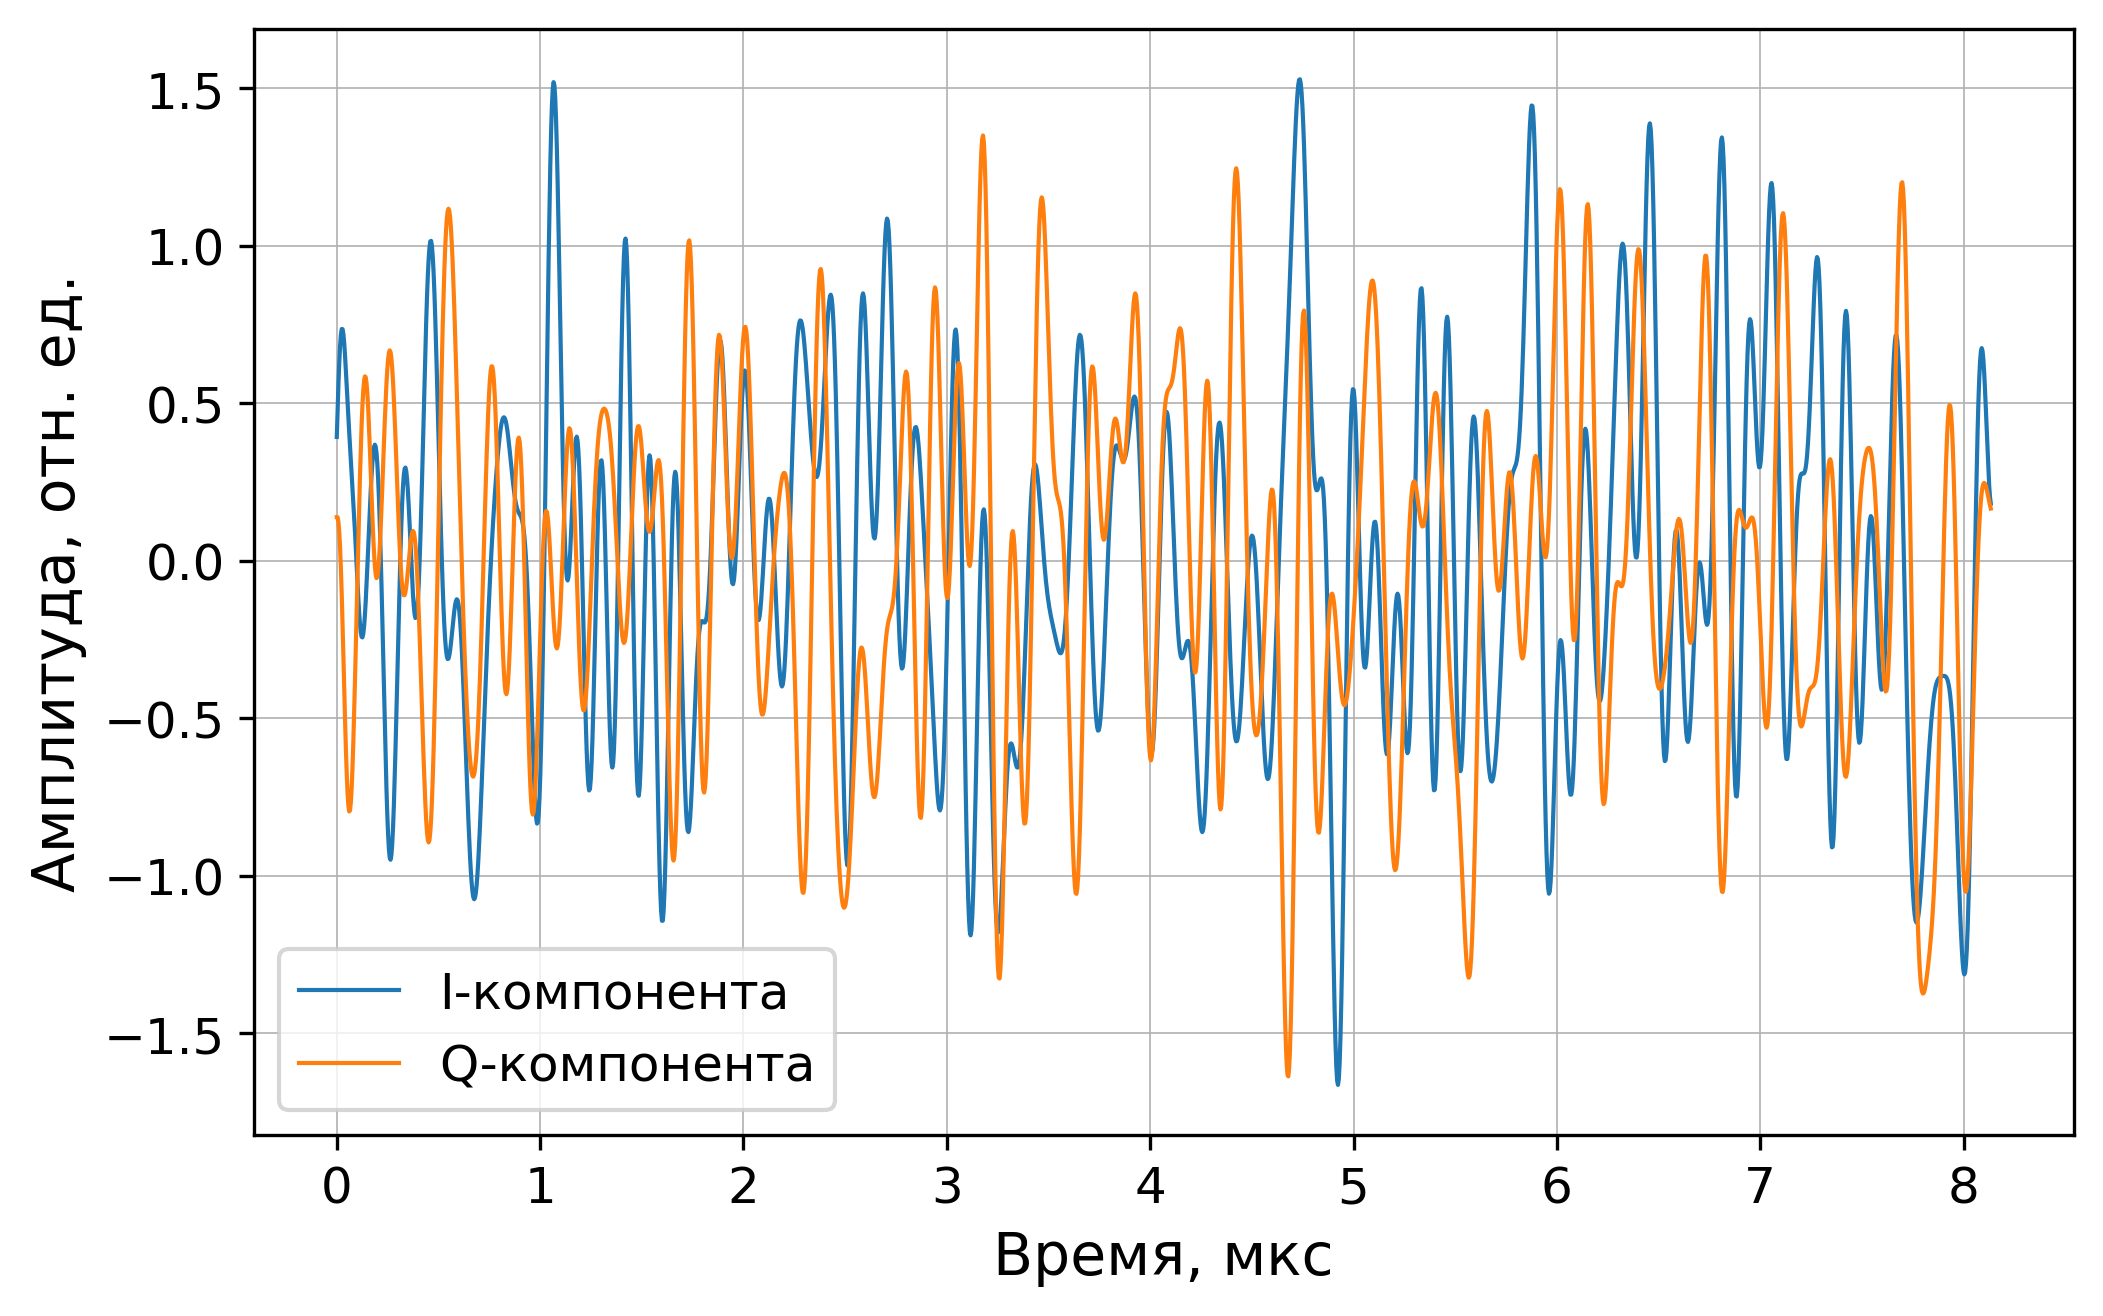
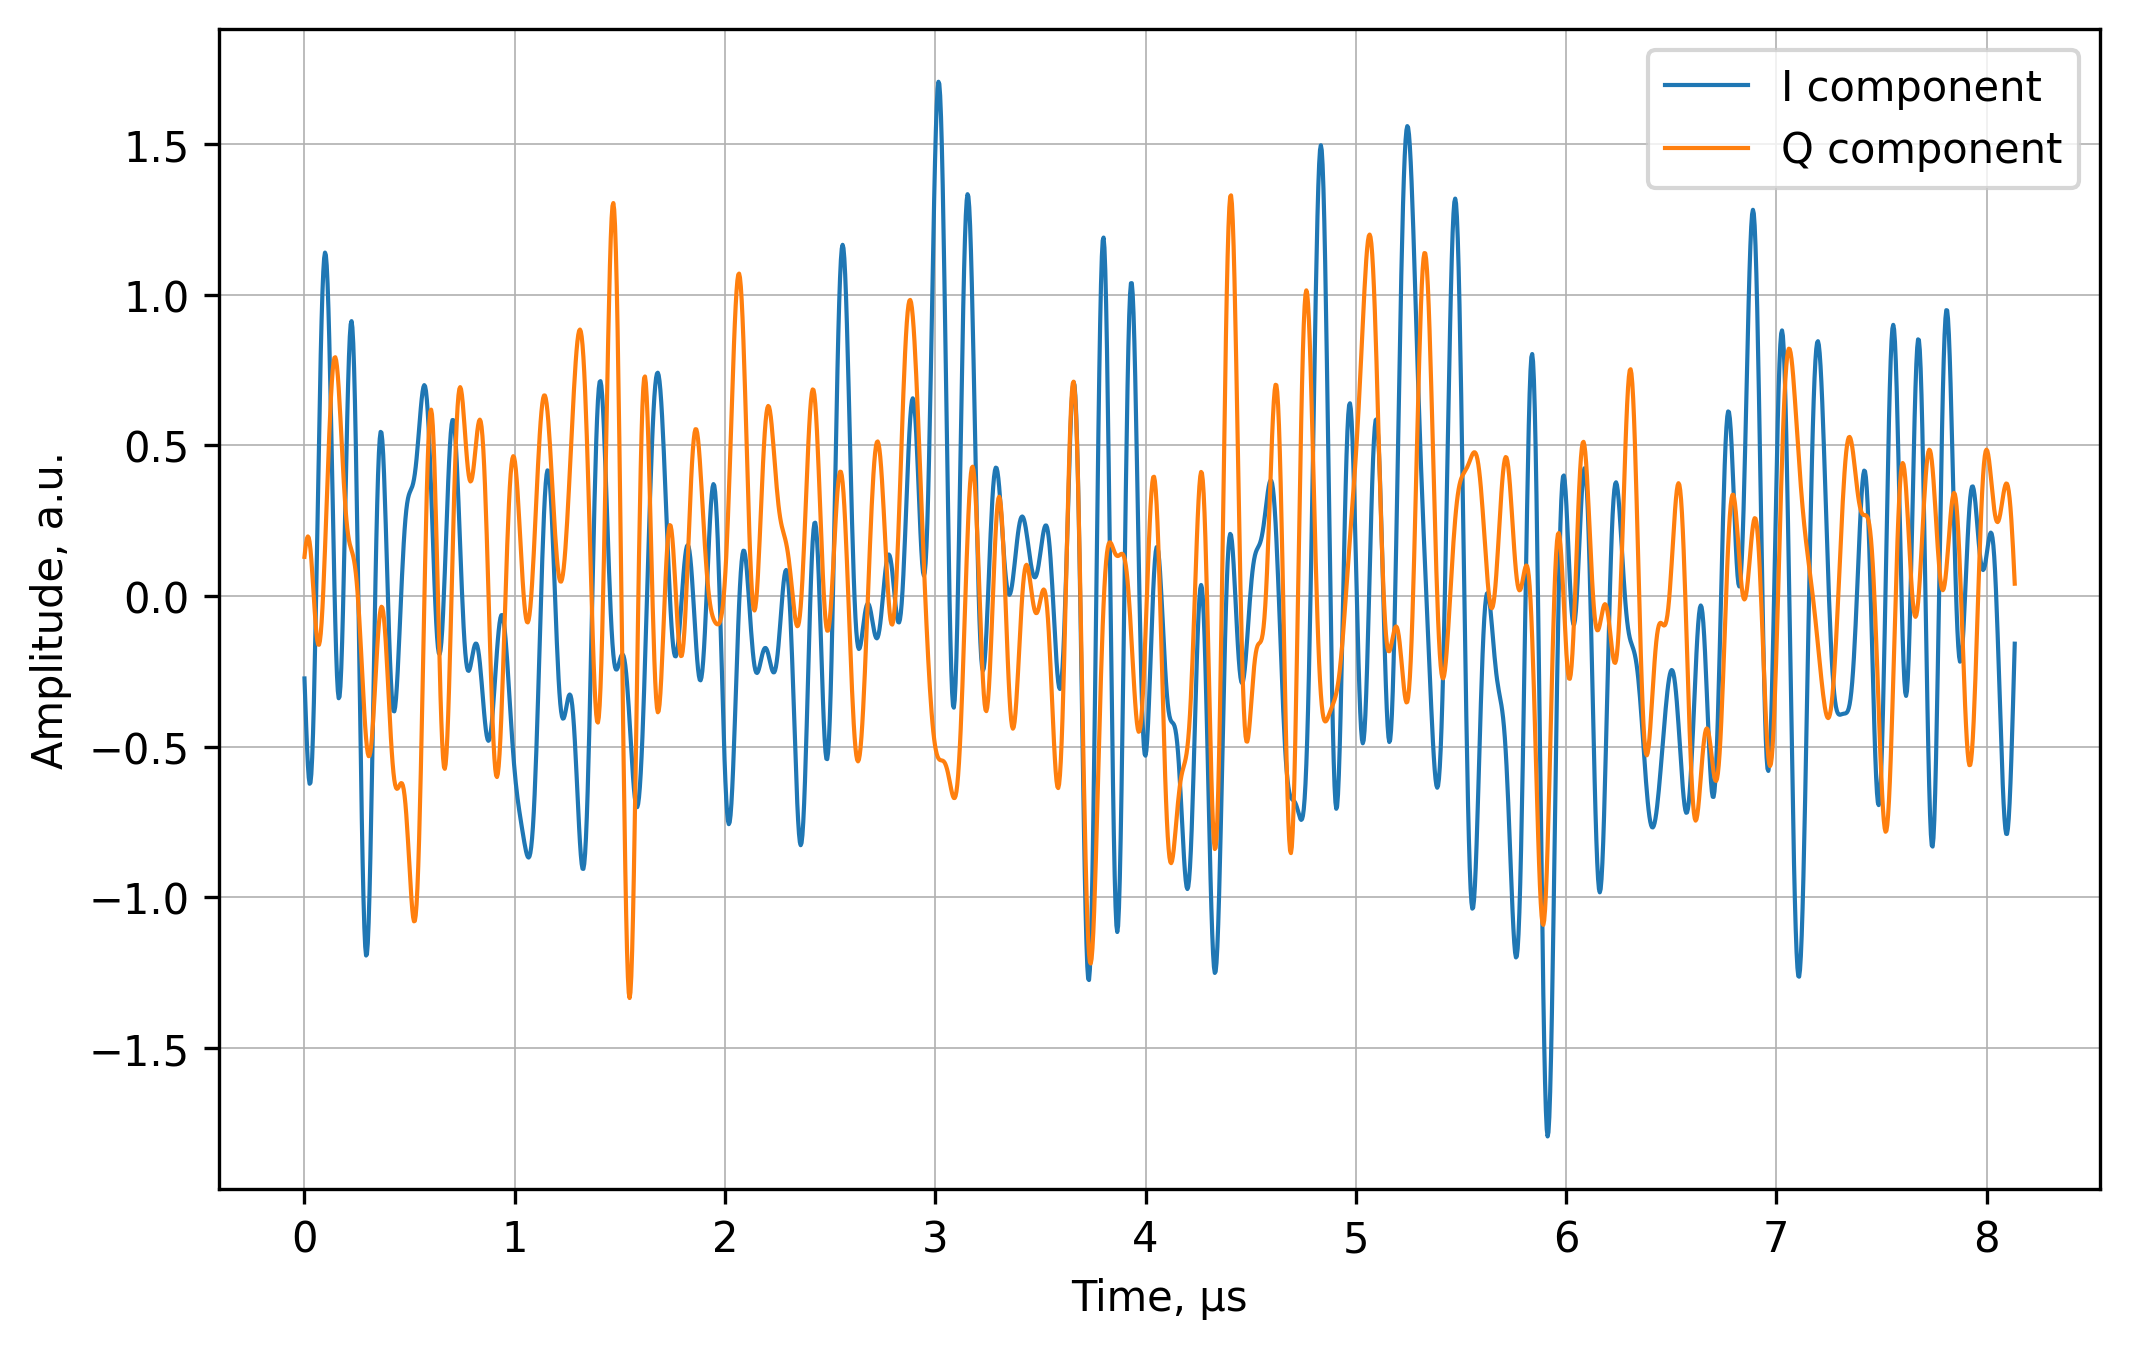
графики на английском

diff --git a/plot_utils.py b/plot_utils.py
@@ -68,22 +68,32 @@ def plot_amam_ampm(x_ref, y_before, y_after):
     fig, ax = plt.subplots(1, 2, figsize=(12, 5))
 
     ax[0].scatter(
-        a_in[::stride_am], a_out_before[::stride_am], s=10, alpha=0.45, label="До DPD"
+        a_in[::stride_am],
+        a_out_before[::stride_am],
+        s=10,
+        alpha=0.45,
+        label="Before DPD",
     )
     ax[0].scatter(
         a_in[::stride_am],
         a_out_after[::stride_am],
         s=10,
         alpha=0.45,
-        label="После DPD",
+        label="After DPD",
         color="tab:red",
     )
 
     lim = max(np.max(a_in), np.max(a_out_before), np.max(a_out_after))
-    ax[0].plot([0, lim], [0, lim], "--", linewidth=1.0, label="Идеальная линейность")
-    ax[0].set_xlabel("Амплитуда входного сигнала")
-    ax[0].set_ylabel("Амплитуда выходного сигнала")
-    ax[0].set_title("AM/AM характеристика")
+    ax[0].plot(
+        [0, lim],
+        [0, lim],
+        "--",
+        linewidth=1.0,
+        label="Ideal linear response",
+    )
+    ax[0].set_xlabel("Input signal amplitude")
+    ax[0].set_ylabel("Output signal amplitude")
+    ax[0].set_title("AM/AM characteristic")
     ax[0].grid(True)
     ax[0].legend()
 
@@ -91,16 +101,28 @@ def plot_amam_ampm(x_ref, y_before, y_after):
     phi_b = phi_before[mask_phi][::stride_pm]
     phi_a = phi_after[mask_phi][::stride_pm]
 
-    ax[1].scatter(a_in_phi, phi_b, s=10, alpha=0.45, label="До DPD")
-    ax[1].scatter(a_in_phi, phi_a, s=10, alpha=0.45, label="После DPD", color="tab:red")
-    ax[1].axhline(0.0, linestyle="--", linewidth=1.0, label="Идеальная линейность")
-    ax[1].set_xlabel("Амплитуда входного сигнала")
-    ax[1].set_ylabel("Фазовая ошибка, градусы")
-    ax[1].set_title("AM/PM характеристика")
+    ax[1].scatter(a_in_phi, phi_b, s=10, alpha=0.45, label="Before DPD")
+    ax[1].scatter(
+        a_in_phi,
+        phi_a,
+        s=10,
+        alpha=0.45,
+        label="After DPD",
+        color="tab:red",
+    )
+    ax[1].axhline(
+        0.0,
+        linestyle="--",
+        linewidth=1.0,
+        label="Ideal linear response",
+    )
+    ax[1].set_xlabel("Input signal amplitude")
+    ax[1].set_ylabel("Phase error, degrees")
+    ax[1].set_title("AM/PM characteristic")
     ax[1].grid(True)
     ax[1].legend()
 
-    fig.suptitle("Амплитудно-амплитудная и амплитудно-фазовая характеристики")
+    fig.suptitle("AM/AM and AM/PM characteristics")
     fig.tight_layout()
 
     return fig, ax
@@ -137,14 +159,27 @@ def plot_gain_vs_input(x_ref, y_before, y_after):
 
     fig, ax = plt.subplots(figsize=(6, 5))
     ax.scatter(
-        pin_db[::stride], gain_before_db[::stride], s=10, alpha=0.45, label="До DPD"
+        pin_db[::stride],
+        gain_before_db[::stride],
+        s=10,
+        alpha=0.45,
+        label="Before DPD",
     )
     ax.scatter(
-        pin_db[::stride], gain_after_db[::stride], s=10, alpha=0.45, label="После DPD"
+        pin_db[::stride],
+        gain_after_db[::stride],
+        s=10,
+        alpha=0.45,
+        label="After DPD",
     )
-    ax.axhline(0.0, linestyle="--", linewidth=1.0, label="Идеально постоянное усиление")
-    ax.set_xlabel("Уровень входного сигнала, дБ")
-    ax.set_ylabel("Коэффициент усиления, дБ")
+    ax.axhline(
+        0.0,
+        linestyle="--",
+        linewidth=1.0,
+        label="Ideal constant gain",
+    )
+    ax.set_xlabel("Input signal level, dB")
+    ax.set_ylabel("Gain, dB")
     ax.set_title("Gain vs Input Level")
     ax.grid(True)
     ax.legend()
@@ -164,10 +199,10 @@ def plot_training_history(model):
     sample_hist = np.asarray(model.get("sample_hist", []), dtype=float)
     if sample_hist.size == nmse_after.size:
         x_axis = sample_hist
-        x_label = "Номер обработанного отсчета"
+        x_label = "Processed sample index"
     else:
         x_axis = np.arange(1, len(nmse_after) + 1)
-        x_label = "Номер контрольной оценки"
+        x_label = "Validation step"
 
     fig, ax = plt.subplots(figsize=(7, 4))
     ax.plot(
@@ -178,8 +213,8 @@ def plot_training_history(model):
         label="NMSE",
     )
     ax.set_xlabel(x_label)
-    ax.set_ylabel("NMSE, дБ")
-    ax.set_title("Сходимость LMS по системной метрике NMSE")
+    ax.set_ylabel("NMSE, dB")
+    ax.set_title("LMS convergence according to the system NMSE metric")
     ax.grid(True)
     ax.legend()
     fig.tight_layout()
@@ -196,7 +231,7 @@ def plot_pa_amam_ampm(
     save=True,
     show=False,
 ):
-    """Строит AM-AM и AM-PM характеристики модели усилителя мощности."""
+    """Plots AM/AM and AM/PM characteristics of the power amplifier model."""
     os.makedirs(out_dir, exist_ok=True)
 
     x_in = np.asarray(x_in, dtype=np.complex128).reshape(-1)
@@ -223,7 +258,7 @@ def plot_pa_amam_ampm(
         a_out[::stride_am],
         s=7,
         alpha=0.35,
-        label="Модель усилителя",
+        label="Power amplifier model",
     )
 
     lim = max(np.max(a_in), np.max(a_out))
@@ -232,11 +267,11 @@ def plot_pa_amam_ampm(
         [0, lim],
         "--",
         linewidth=1.2,
-        label="Идеальная линейность",
+        label="Ideal linear response",
     )
 
-    ax.set_xlabel(r"Амплитуда входного сигнала")
-    ax.set_ylabel(r"Амплитуда выходного сигнала")
+    ax.set_xlabel(r"Input signal amplitude")
+    ax.set_ylabel(r"Output signal amplitude")
     ax.legend(loc="best")
     ax.grid(True)
 
@@ -257,18 +292,18 @@ def plot_pa_amam_ampm(
         phase_shift[mask_pm][::stride_pm],
         s=7,
         alpha=0.35,
-        label="Модель усилителя",
+        label="Power amplifier model",
     )
 
     ax.axhline(
         0.0,
         linestyle="--",
         linewidth=1.2,
-        label="Отсутствие фазового сдвига",
+        label="No phase shift",
     )
 
-    ax.set_xlabel(r"Амплитуда входного сигнала")
-    ax.set_ylabel(r"Фазовый сдвиг, градусы")
+    ax.set_xlabel(r"Input signal amplitude")
+    ax.set_ylabel(r"Phase shift, degrees")
     ax.legend(loc="best")
     ax.grid(True)
 
@@ -307,10 +342,21 @@ def plot_pa_gain_vs_input(x_in, y_out):
     stride = _scatter_stride(len(pin_db), max_points=30000)
 
     fig, ax = plt.subplots(figsize=(6, 5))
-    ax.scatter(pin_db[::stride], gain_db[::stride], s=10, alpha=0.45, label="PA")
-    ax.axhline(0.0, linestyle="--", linewidth=1.0, label="Идеально постоянное усиление")
-    ax.set_xlabel("Уровень входного сигнала, дБ")
-    ax.set_ylabel("Коэффициент усиления, дБ")
+    ax.scatter(
+        pin_db[::stride],
+        gain_db[::stride],
+        s=10,
+        alpha=0.45,
+        label="PA",
+    )
+    ax.axhline(
+        0.0,
+        linestyle="--",
+        linewidth=1.0,
+        label="Ideal constant gain",
+    )
+    ax.set_xlabel("Input signal level, dB")
+    ax.set_ylabel("Gain, dB")
     ax.grid(True)
     ax.legend()
     fig.tight_layout()
@@ -325,7 +371,7 @@ def plot_pa_input_output_spectrum(
     out_dir="figures",
     filename="pa_input_output_spectrum.png",
 ):
-    """Строит спектры входного и выходного сигналов усилителя."""
+    """Plots spectra of the input and output signals of the power amplifier."""
     os.makedirs(out_dir, exist_ok=True)
 
     fs = prm["txFs"] * prm["up"]
@@ -345,12 +391,12 @@ def plot_pa_input_output_spectrum(
     if len(handles) >= 2:
         ax.legend(
             handles[:2],
-            ["Вход усилителя", "Выход усилителя"],
+            ["PA input", "PA output"],
             loc="best",
         )
 
-    ax.set_xlabel("Частота, МГц")
-    ax.set_ylabel("Нормированная спектральная \n плотность мощности, дБ")
+    ax.set_xlabel("Frequency, MHz")
+    ax.set_ylabel("Normalized power spectral density, dB")
     ax.grid(True)
 
     fig.tight_layout()

diff --git a/generator.py b/generator.py
@@ -281,8 +281,8 @@ def _plot_generated_signal(x, prm, mode):
         ax.axvline(-sig_band / 2 / 1e6, linestyle="--", linewidth=1.0, color="gray")
         ax.axvline(sig_band / 2 / 1e6, linestyle="--", linewidth=1.0, color="gray")
 
-    ax.set_xlabel("Частота, МГц")
-    ax.set_ylabel("Нормированная спектральная \n плотность мощности, дБ")
+    ax.set_xlabel("Frequency, MHz")
+    ax.set_ylabel("Normalized power spectral density, dB")
     ax.grid(True, linewidth=0.4)
     ax.set_ylim(-70, 5)
     ax.set_xlim(-40, 40)
@@ -300,11 +300,11 @@ def _plot_generated_signal(x, prm, mode):
 
     fig, ax = plt.subplots(figsize=(7.2, 4.6))
 
-    ax.plot(t * 1e6, np.real(x[:n_show]), linewidth=1.0, label="I-компонента")
-    ax.plot(t * 1e6, np.imag(x[:n_show]), linewidth=1.0, label="Q-компонента")
+    ax.plot(t * 1e6, np.real(x[:n_show]), linewidth=1.0, label="I component")
+    ax.plot(t * 1e6, np.imag(x[:n_show]), linewidth=1.0, label="Q component")
 
-    ax.set_xlabel("Время, мкс")
-    ax.set_ylabel("Амплитуда, отн. ед.")
+    ax.set_xlabel("Time, μs")
+    ax.set_ylabel("Amplitude, a.u.")
     ax.grid(True, linewidth=0.4)
     ax.legend()
 

diff --git a/main.py b/main.py
@@ -48,7 +48,7 @@ def build_params():
         # generator seeds
         "signal_seed_train": 101,
         "signal_seed_test": 202,
-        "plot_signal": False,
+        "plot_signal": True,
         "plot_dir": "figures",
         "plot_prefix": "ofdm_input_signal",
         "iq_plot_samples": 2000,
